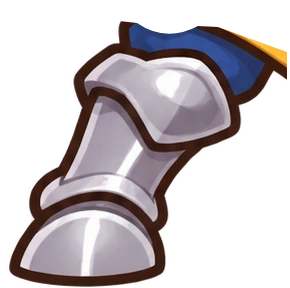
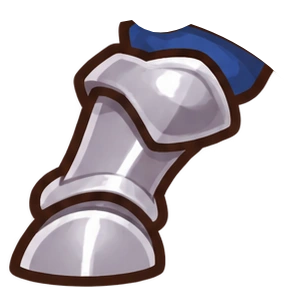
Align the knight's hips in the Survival lunge

Changed region(s): [[0.4966, 0.0625, 0.9931, 0.2812], [0.4345, 0.0625, 0.4966, 0.0938]]

diff --git a/anim/survival-puppets.css b/anim/survival-puppets.css
@@ -3,13 +3,12 @@
    translate / scale / rotate properties so it layers on top of the scene's transform keyframes. */
 .pz-scene { position:absolute; inset:0; display:block; }
 .pz-char { position:absolute; display:block; bottom:3%; }
-.pz-knight { left:4%; width:35%; z-index:3; }
+.pz-knight { left:4%; bottom:1.5%; width:35%; z-index:3; }
 .pz-dragon { right:-1%; width:54%; z-index:1; }
 .pz-char .pg { position:absolute; inset:0; display:block; }
 .pz-char .pz-i { position:absolute; max-width:none; pointer-events:none; }
-/* Hide the baked-in near shoulder and knees. Those plates move on their own layers. */
+/* The near shoulder moves on its own layer. */
 .k-chest { clip-path:polygon(36% 0,100% 0,100% 100%,0 100%,0 57%,30% 57%,30% 45%,40% 41%,50% 36%,53% 27%,51% 20%,46% 14%,37% 10%); }
-.k-hips { clip-path:inset(0 0 50%); }
 .pz-face { opacity:0; }
 .pz-face-0 { opacity:1; }
 .pz-sweat { opacity:0; }
